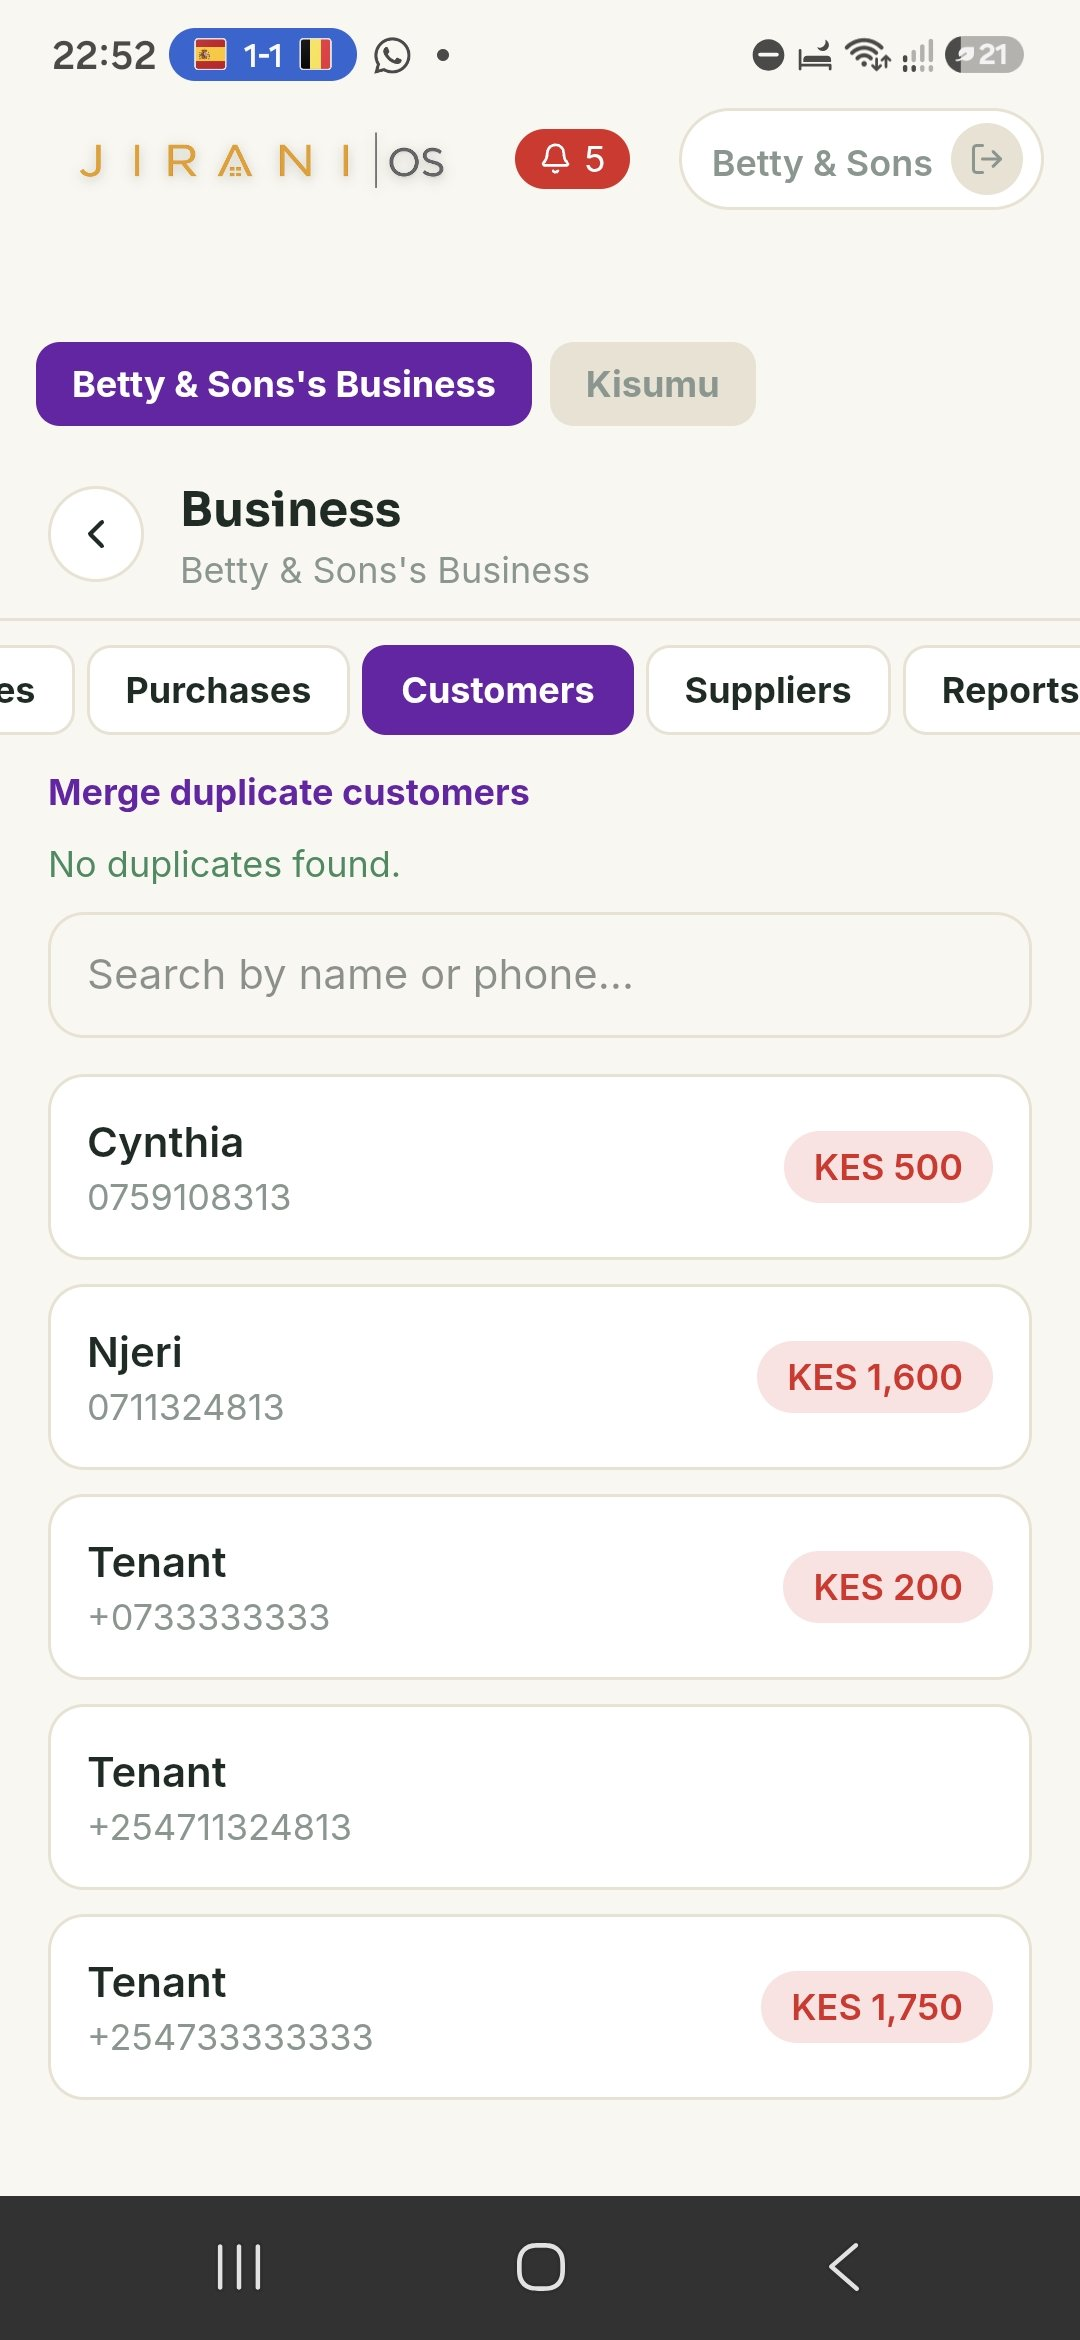
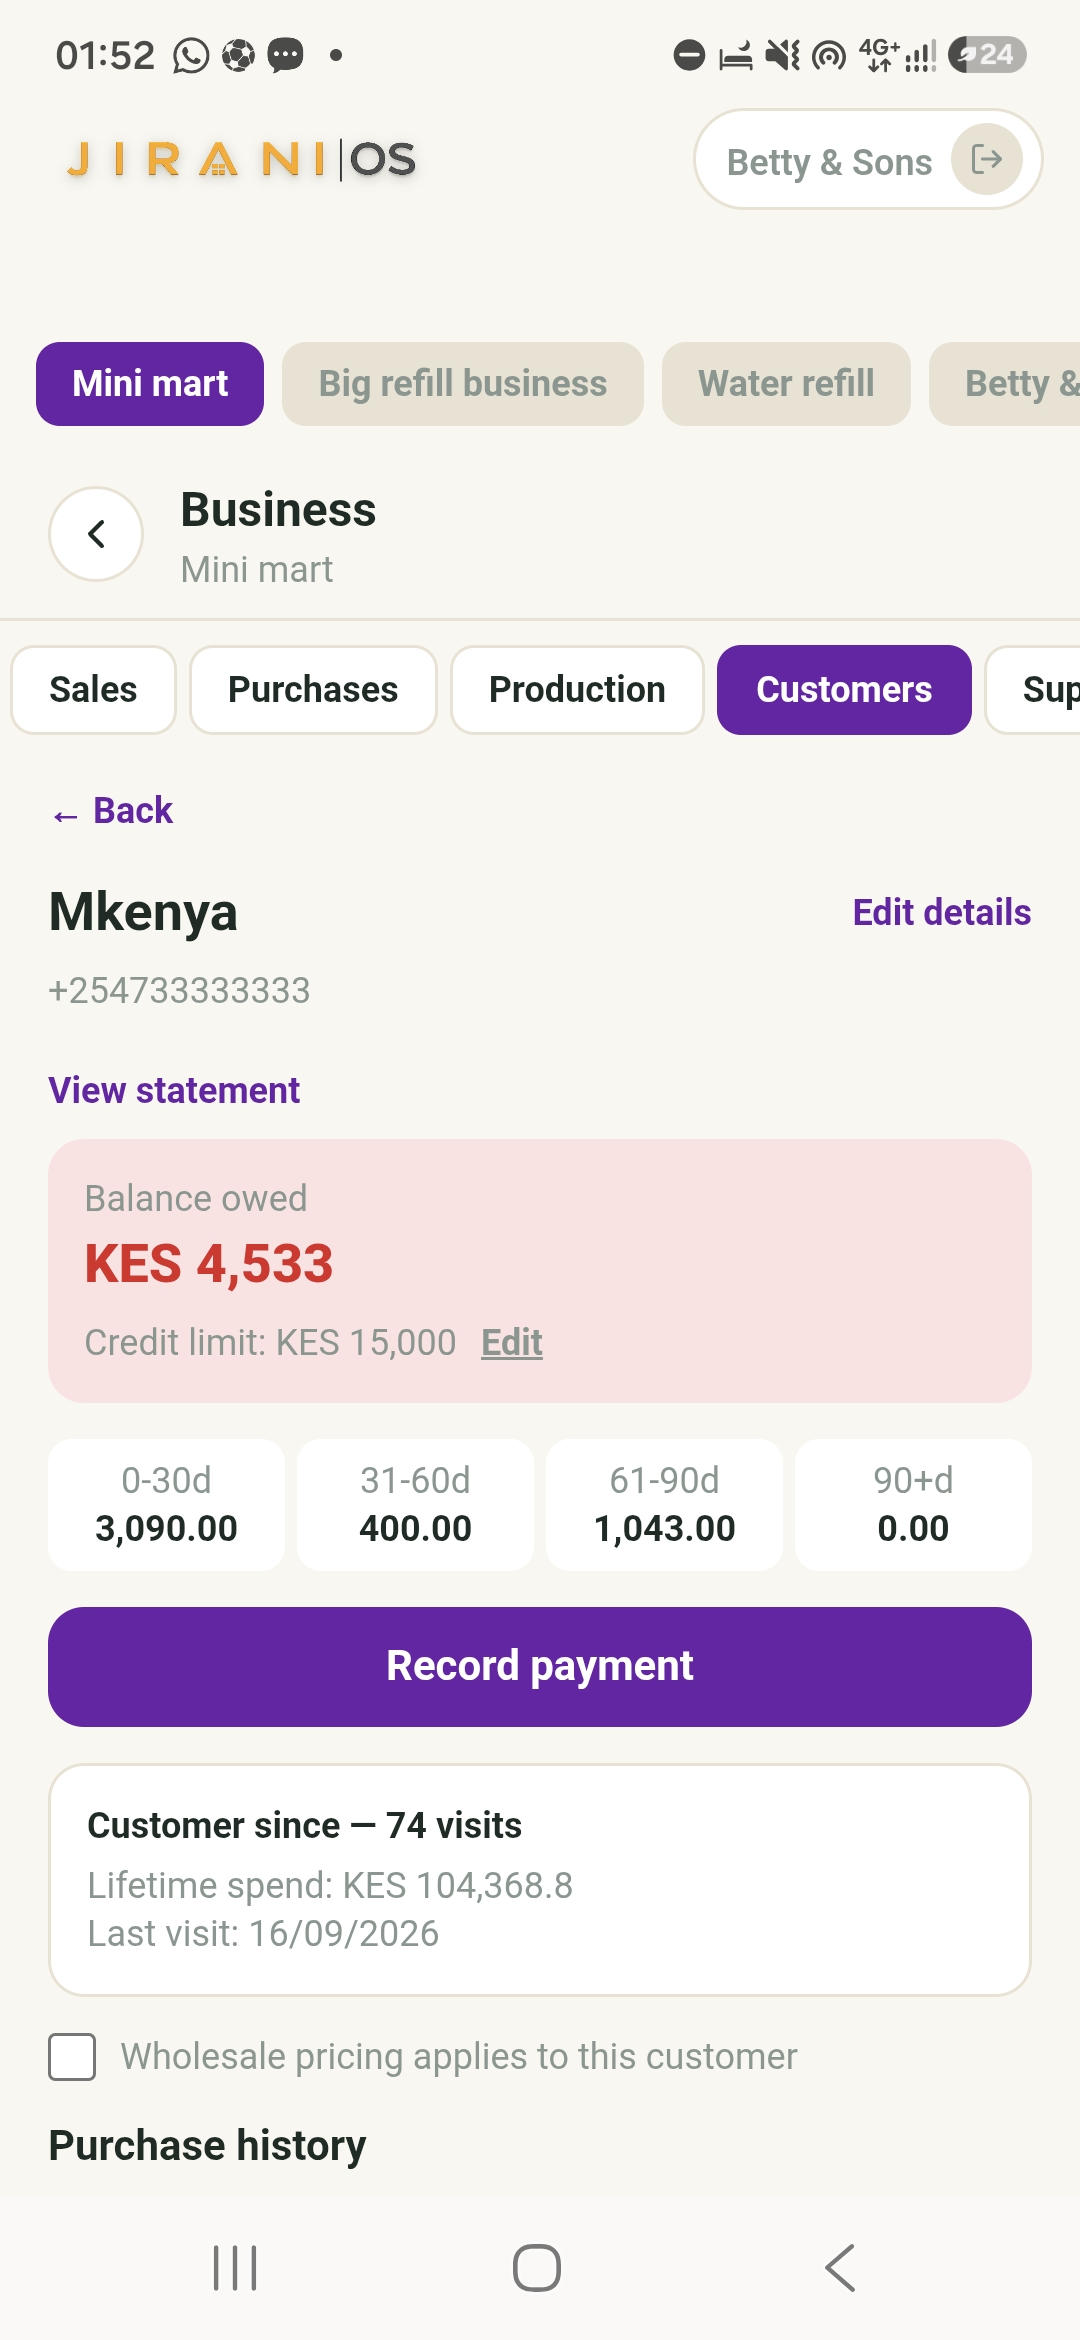
website improvements and screenshot replacement

diff --git a/src/content/testimonials.ts b/src/content/testimonials.ts
@@ -1,28 +1,29 @@
 export interface Testimonial {
+  scenario: string; // a short, generic label for the kind of business - not a name or "role at X"
   quote: string;
-  role: string; // deliberately a role/business type, not a fabricated named person or company
 }
 
-// Item: Jirani OS does not yet have published customer testimonials to
-// draw from. Per the brief's own instruction, these are clearly marked
-// as illustrative examples of the kind of outcome the product is
-// designed to deliver — not attributed to real people or companies.
-// Replace with real testimonials once available, and remove the
-// disclaimer alongside them.
+// Item: Jirani OS does not yet have published customer testimonials.
+// These are written as short scenario narratives describing outcomes
+// the product is designed to deliver - deliberately not phrased as a
+// quote attributed to a named person or a specific business, since
+// that would misrepresent them as real customer feedback. The section
+// they render in carries its own explicit disclaimer as well. Replace
+// with real testimonials, properly attributed, once available.
 export const testimonials: Testimonial[] = [
   {
+    scenario: 'Retail shop running delivery through Jirani OS',
     quote:
-      'Before, orders came in over WhatsApp and a rider was arranged by phone call every single time. Now a customer orders from our shop, and delivery is dispatched before I even see the message.',
-    role: 'Illustrative example — Owner, retail shop running delivery through Jirani OS',
+      'Orders used to come in over WhatsApp, with a rider arranged by phone call every single time. Now an order placed through the shop gets priced and dispatched before anyone has to pick up a phone.',
   },
   {
+    scenario: 'Wholesale retail shop',
     quote:
-      'Our till, our stock count and our books used to disagree with each other constantly. They do not anymore, because they are the same system.',
-    role: 'Illustrative example — Owner, wholesale retail shop',
+      'The till, the stock count and the books used to disagree with each other constantly. They stop disagreeing once they are the same system.',
   },
   {
+    scenario: 'Water refill business',
     quote:
-      'Meter readings used to mean a week of manual invoicing. Now it happens the same day the readings are captured.',
-    role: 'Illustrative example — Operations Lead, water utility provider',
+      'Manual invoicing from meter or tank readings used to take a week to catch up on. With one connected system, it happens the same day the readings are captured.',
   },
 ];

diff --git a/src/content/screenshots.ts b/src/content/screenshots.ts
@@ -9,10 +9,10 @@ export interface AppScreenshot {
 // rather than guessed at.
 export const appScreenshots: AppScreenshot[] = [
   { src: '/screenshots/login.jpg', alt: 'Jirani OS login screen', caption: 'One login for every role' },
-  { src: '/screenshots/tenant-dashboard.jpg', alt: 'Tenant dashboard showing rent, deposit and maintenance', caption: 'Tenant dashboard' },
-  { src: '/screenshots/marketplace.jpg', alt: 'Property marketplace listing with filters', caption: 'Property marketplace' },
+  { src: '/screenshots/account-statement.jpg', alt: 'Customer account statement showing sales, payments and running balance', caption: 'Account statement' },
+  { src: '/screenshots/staff-commissions.jpg', alt: 'Staff commissions screen showing casual workers and commission rules per service', caption: 'Staff commissions' },
   { src: '/screenshots/pos.jpg', alt: 'Point of sale screen with products and services', caption: 'Point of sale' },
   { src: '/screenshots/customer-dashboard.jpg', alt: 'Customer dashboard showing orders and purchase history', caption: 'Customer orders' },
   { src: '/screenshots/screen-04.jpg', alt: 'Service provider dashboard showing branches, staff and revenue', caption: 'Multi-branch dashboard' },
-  { src: '/screenshots/screen-07.jpg', alt: 'Customer list showing names, phone numbers and outstanding balances', caption: 'Customer accounts & credit' },
+  { src: '/screenshots/screen-07.jpg', alt: 'Customer profile showing balance owed, credit limit, aging buckets and purchase history', caption: 'Customer accounts & credit' },
 ];

diff --git a/src/components/marketing/TestimonialCard.tsx b/src/components/marketing/TestimonialCard.tsx
@@ -1,13 +1,15 @@
-import { Quote } from 'lucide-react';
+import { Workflow } from 'lucide-react';
 import { Card } from '../ui/Card';
 import type { Testimonial } from '../../content/testimonials';
 
-export function TestimonialCard({ quote, role }: Testimonial) {
+export function TestimonialCard({ scenario, quote }: Testimonial) {
   return (
     <Card padding="lg" className="flex h-full flex-col">
-      <Quote size={22} className="mb-4 text-primary/40" />
-      <p className="flex-1 text-base leading-relaxed text-ink">&ldquo;{quote}&rdquo;</p>
-      <p className="mt-5 text-sm font-medium text-ink-muted">{role}</p>
+      <div className="mb-4 flex items-center gap-2 text-primary">
+        <Workflow size={18} />
+        <span className="text-xs font-semibold uppercase tracking-wide">{scenario}</span>
+      </div>
+      <p className="flex-1 text-base leading-relaxed text-ink">{quote}</p>
     </Card>
   );
 }

diff --git a/src/pages/Home.tsx b/src/pages/Home.tsx
@@ -206,13 +206,13 @@ export default function Home() {
           <Reveal className="mb-10 max-w-xl">
             <h2 className="text-3xl font-extrabold text-ink md:text-4xl">What running one system looks like.</h2>
             <p className="mt-3 text-sm text-ink-muted">
-              Jirani OS is early — these are illustrative examples of the outcomes the product is designed to
+              Jirani OS is early — these are scenario examples of the outcomes the product is designed to
               deliver, not published customer reviews.
             </p>
           </Reveal>
           <div className="grid grid-cols-1 gap-5 md:grid-cols-3">
             {testimonials.map((t, i) => (
-              <Reveal key={t.role} delay={i * 0.08}>
+              <Reveal key={t.scenario} delay={i * 0.08}>
                 <TestimonialCard {...t} />
               </Reveal>
             ))}
